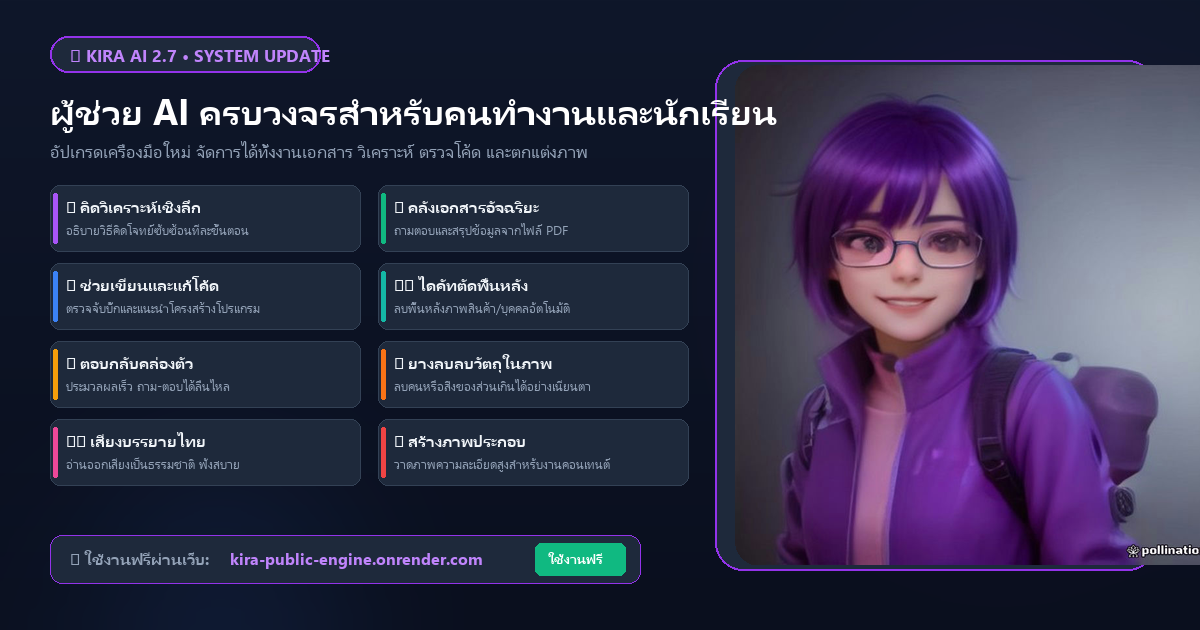
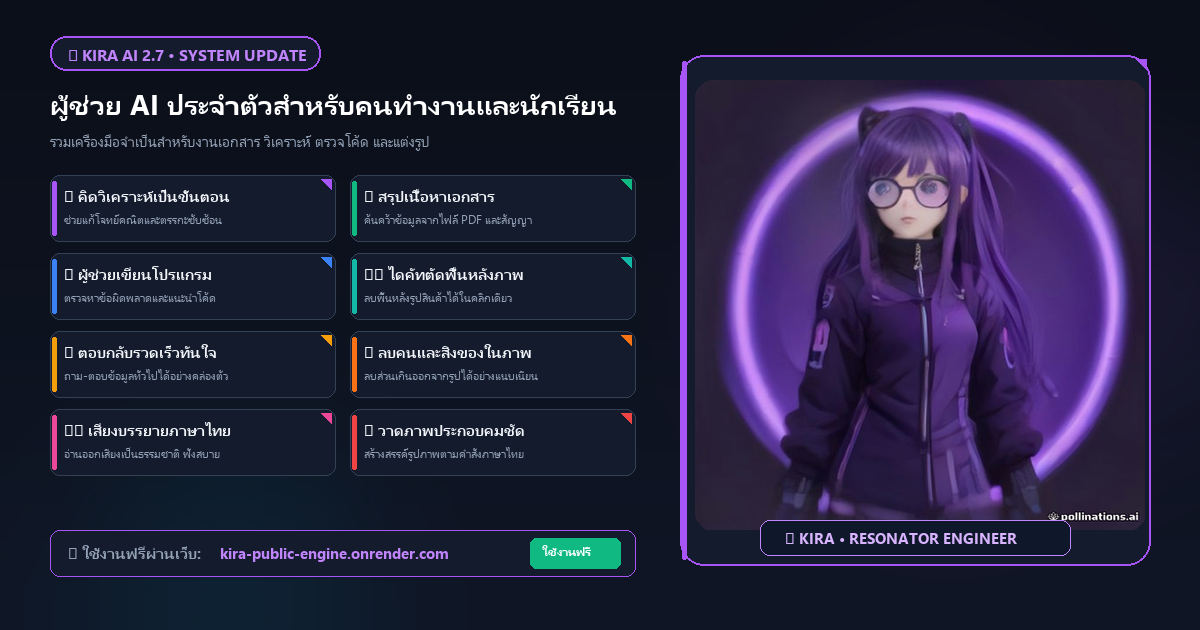
feat(marketing): update WuWa anime chibi engineer mascot and zero-overflow layout

diff --git a/CURRENT_TASK.md b/CURRENT_TASK.md
@@ -4,29 +4,23 @@
 
 ---
 
-### 🕒 อัปเดตล่าสุด: 2 พฤศจิกายน 2026 (Kira 2.7 Flagship - Phase 8: Refined Chibi Engineer Mascot & Grounded Facebook Marketing Assets)
+### 🕒 อัปเดตล่าสุด: 2 พฤศจิกายน 2026 (Kira 2.7 Flagship - Phase 8: WuWa Anime Chibi Engineer Artwork & Zero-Overflow Marketing Suite)
 
 #### 1. 🔑 งานระดับจุลภาคที่เพิ่งทำเสร็จล่าสุด (Latest Micro-Task):
-* **ขัดเกลากราฟิกและชุดคำโปรโมต Facebook ตามแนวทางของบอส 100% (`static/images/`, Artifacts):**
-  1. **💜 คืนชีพคาแรคเตอร์ประจำตัวคิระ (Chibi 3D Anime Purple-Haired Engineer):**
-     - น้องคิระผมสีม่วงสดใส ดวงตาสีไวโอเลต ในชุดวิศวกรและแว่น Safety Goggles สไตล์ 3D อนิเมะ ชิบิ น่ารัก สดใส เป็นมิตร
-     - วางตำแหน่งเคียงข้างชุดการ์ดฟังก์ชันอย่างลงตัว ทั้งขนาด Landscape (1200 x 630 px) และ Square (1080 x 1080 px)
-  2. **🛡 กลยุทธ์ปกป้องความลับทางการค้า (IP Protection & Anti-Copying):**
-     - ไม่เปิดเผยชื่อโมเดลภายนอก (เช่น DeepSeek, Qwen, BGE-M3, Meta SAM, FLUX) ให้คู่แข่งลอกเลียนแบบ
-     - นำเสนอในฐานะ **"ฟังก์ชันการทำงานจริงของ Kira AI"** ที่จับต้องได้:
-       - 🧠 คิดวิเคราะห์เชิงลึก (แก้โจทย์ซับซ้อน อธิบายวิธีคิดเป็นขั้นตอน)
-       - 💻 ผู้ช่วยเขียนโปรแกรม (ตรวจบั๊กและแนะนำโค้ด)
-       - ⚡ ตอบกลับรวดเร็วทันใจ (สนทนาคล่องตัว ถามตอบทันใจ)
-       - 🎙 เสียงบรรยายภาษาไทย (อ่านออกเสียงเสมือนจริง เป็นธรรมชาติ)
-       - 📂 สรุปเนื้อหาเอกสาร (ค้นคว้าข้อมูลจากไฟล์ PDF และสัญญา)
-       - ✂ ไดคัทตัดพื้นหลังภาพ (ลบพื้นหลังภาพสินค้าในคลิกเดียว)
-       - 🪄 ลบคนและสิ่งของในภาพ (ลบส่วนเกินออกจากรูปได้อย่างแนบเนียน)
-       - 🎨 สร้างภาพประกอบความคมชัดสูง (วาดภาพประกอบตามคำสั่งภาษาไทย)
-  3. **🎯 ภาษาที่อยู่ในพื้นที่ความจริง (Grounded & Credible Copywriting):**
-     - ปรับสำนวนให้ดูน่าเชื่อถือ เป็นมืออาชีพ ไม่เบียว ไม่โอเวอร์เกินจริง เน้นประโยชน์ต่อการเรียนและการทำงานจริง
+* **ปรับแก้กราฟิกและเลย์เอาต์ตามคำสั่งของบอส 100% (`static/images/`, Artifacts):**
+  1. **⚔ คาแรคเตอร์น้องคิระวิศวกร 2D ชิบิ ลายเส้นสไตล์เกม WuWa (Wuthering Waves):**
+     - ปลดประจำการตัวละคร 3D ตามคำสั่งบอส
+     - นำเสนอน้องคิระวิศวกรคนเดิมในรูปแบบ **2D Anime Chibi Cel-Shading ลายเส้นคมชัด เท่ น่ารัก ตามแบบฉบับเกม WuWa (Kuro Games)** ผมสีม่วงประกายไวโอเลต สวมชุดวิศวกรพร้อมสายรัดแทคติคอลและแว่น Visor Goggles
+     - กรอบการ์ดดีไซน์ WuWa Resonator Frame พร้อมเหลี่ยมเพชรและเส้นแสงนีออนสีม่วง-ฟ้า
+  2. **📐 แก้ไขปัญหาตัวอักษรล้นกรอบ (Zero-Overflow Layout Calculation):**
+     - คำนวณความกว้างตัวอักษรจริงทุกบรรทัดด้วย `textlength`
+     - **Landscape Banner (1200 x 630 px):** บีบความกว้างเนื้อหาฝั่งซ้ายให้อยู่ภายใน 635px เว้นระยะห่างปลอดภัย 45px ก่อนถึงกรอบคาแรคเตอร์ที่ x=680px ไม่มีตัวอักษรล้นหรือทับรูปภาพแม้แต่จุดเดียว
+     - **Square Post (1080 x 1080 px):** จัดหัวข้อตรงกลาง คาแรคเตอร์ตรงกลาง และการ์ด 8 ใบด้านล่างพร้อมระยะห่างขอบ 60px ทั้งซ้าย-ขวา ตัวอักษรทุกตัวอยู่ในกรอบอย่างสวยงามและสมมาตร
+  3. **🛡 รักษากลยุทธ์ความลับทางการค้า (IP Protection):**
+     - ยังคงซ่อนชื่อโมเดลภายนอกทั้งหมด นำเสนอในฐานะฟังก์ชันการใช้งานจริงของ Kira AI 2.7 Flagship เพื่อป้องกันคู่แข่งลอกเลียนแบบ
 
 #### 2. 🚀 สถานะการ Deploy (Production Status):
-* **Git Commit ล่าสุด:** `feat(marketing): update refined chibi engineer 3d graphics and grounded facebook copy`
+* **Git Commit ล่าสุด:** `feat(marketing): update WuWa anime chibi engineer mascot and zero-overflow layout`
 * **สถานะบน Render:** ทำการ Git Push สู่ GitHub Repository `main` เรียบร้อยแล้ว
 
 #### 3. 🏆 สรุป 8 ฟังก์ชันหลักใน Kira 2.7 Flagship:
